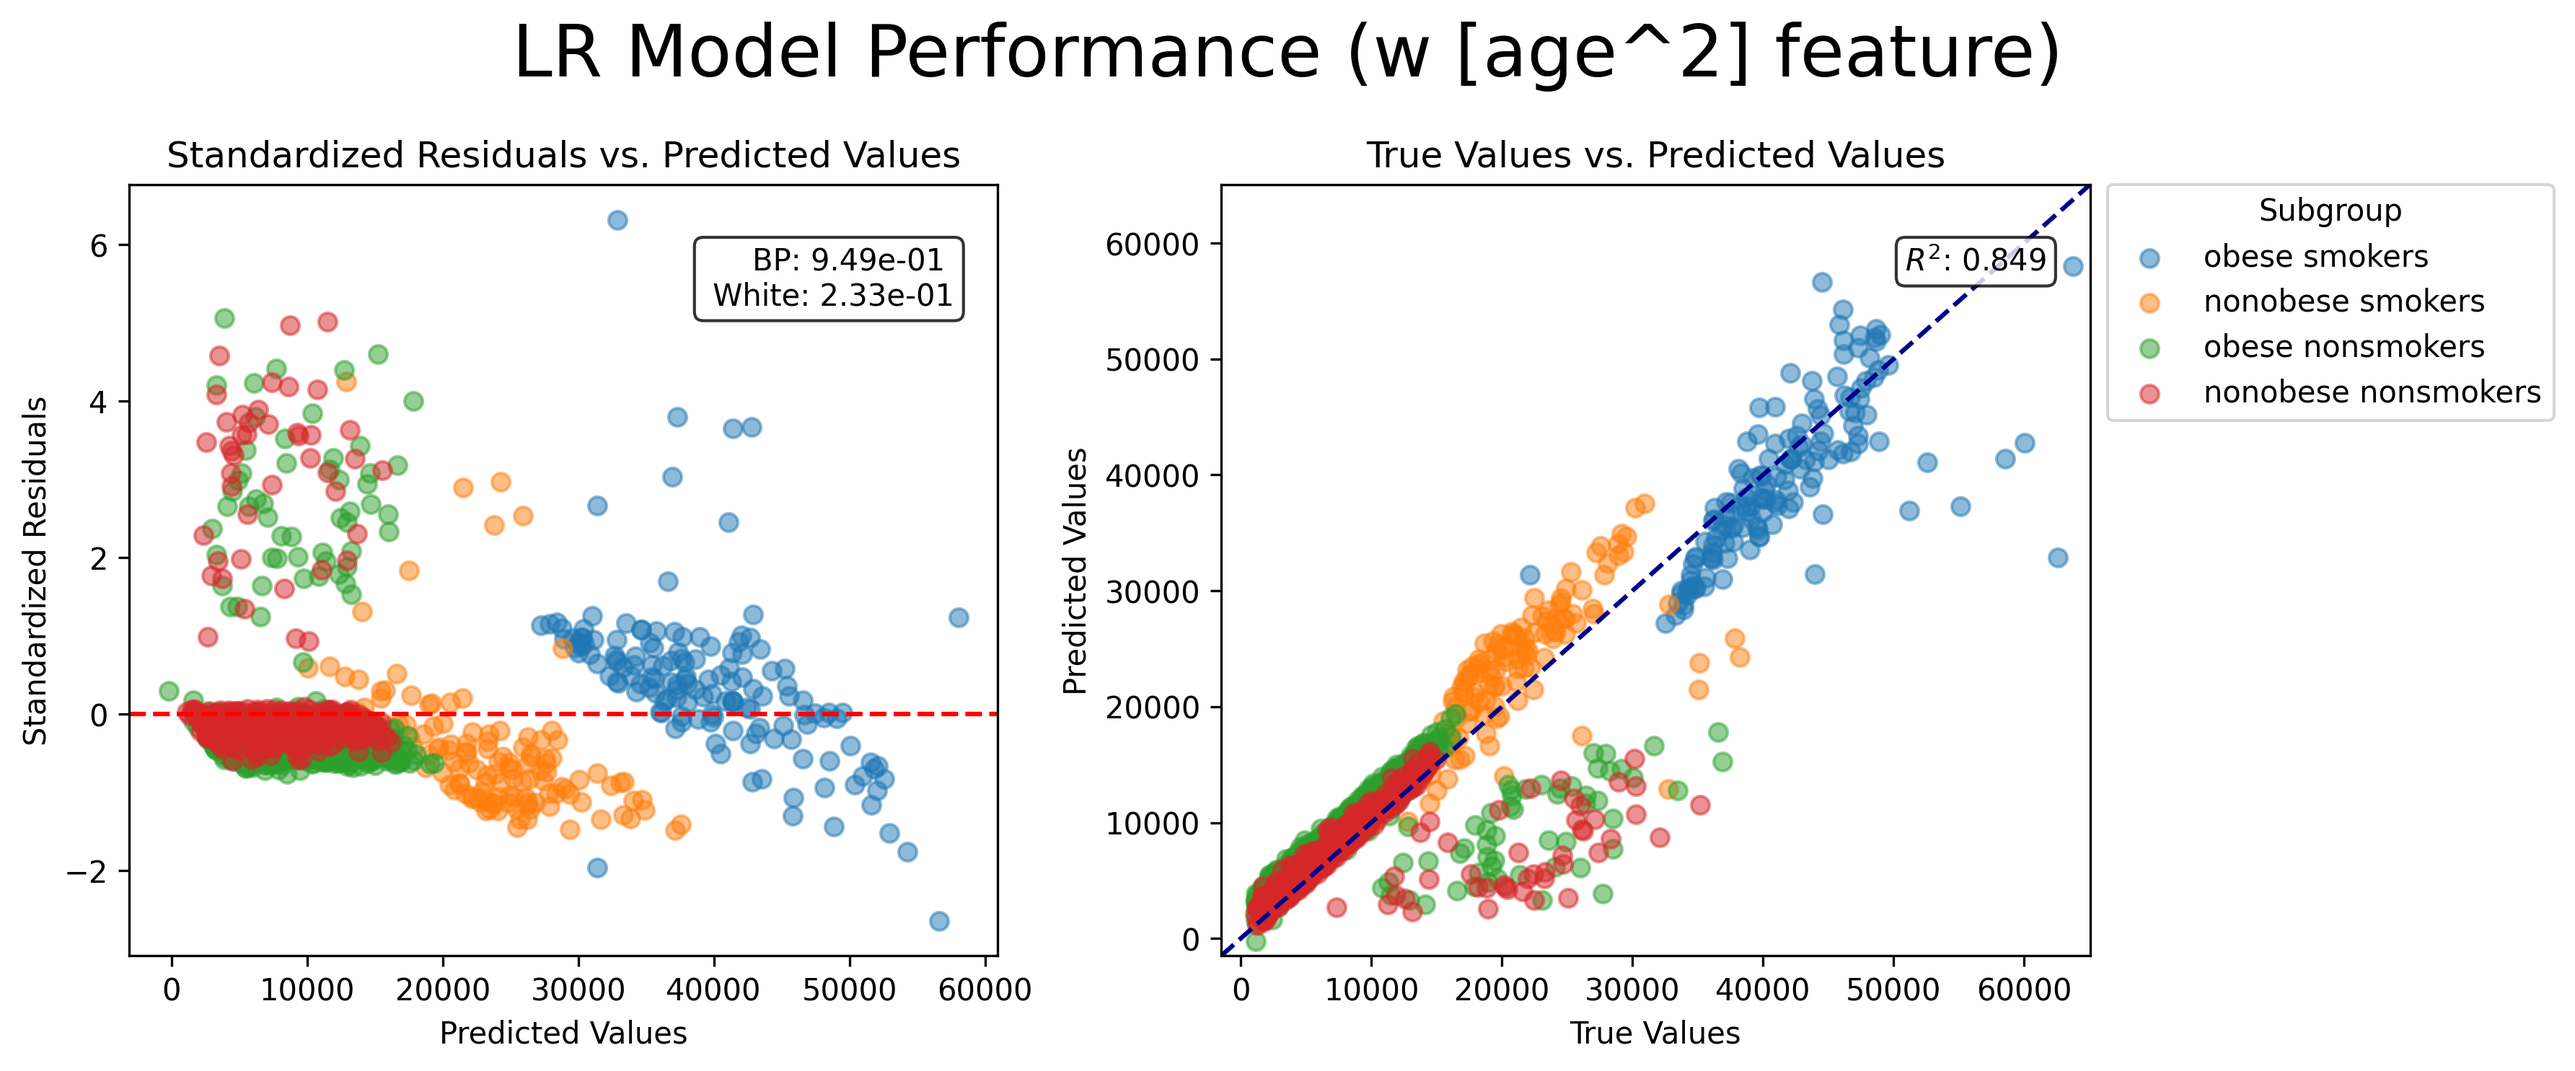
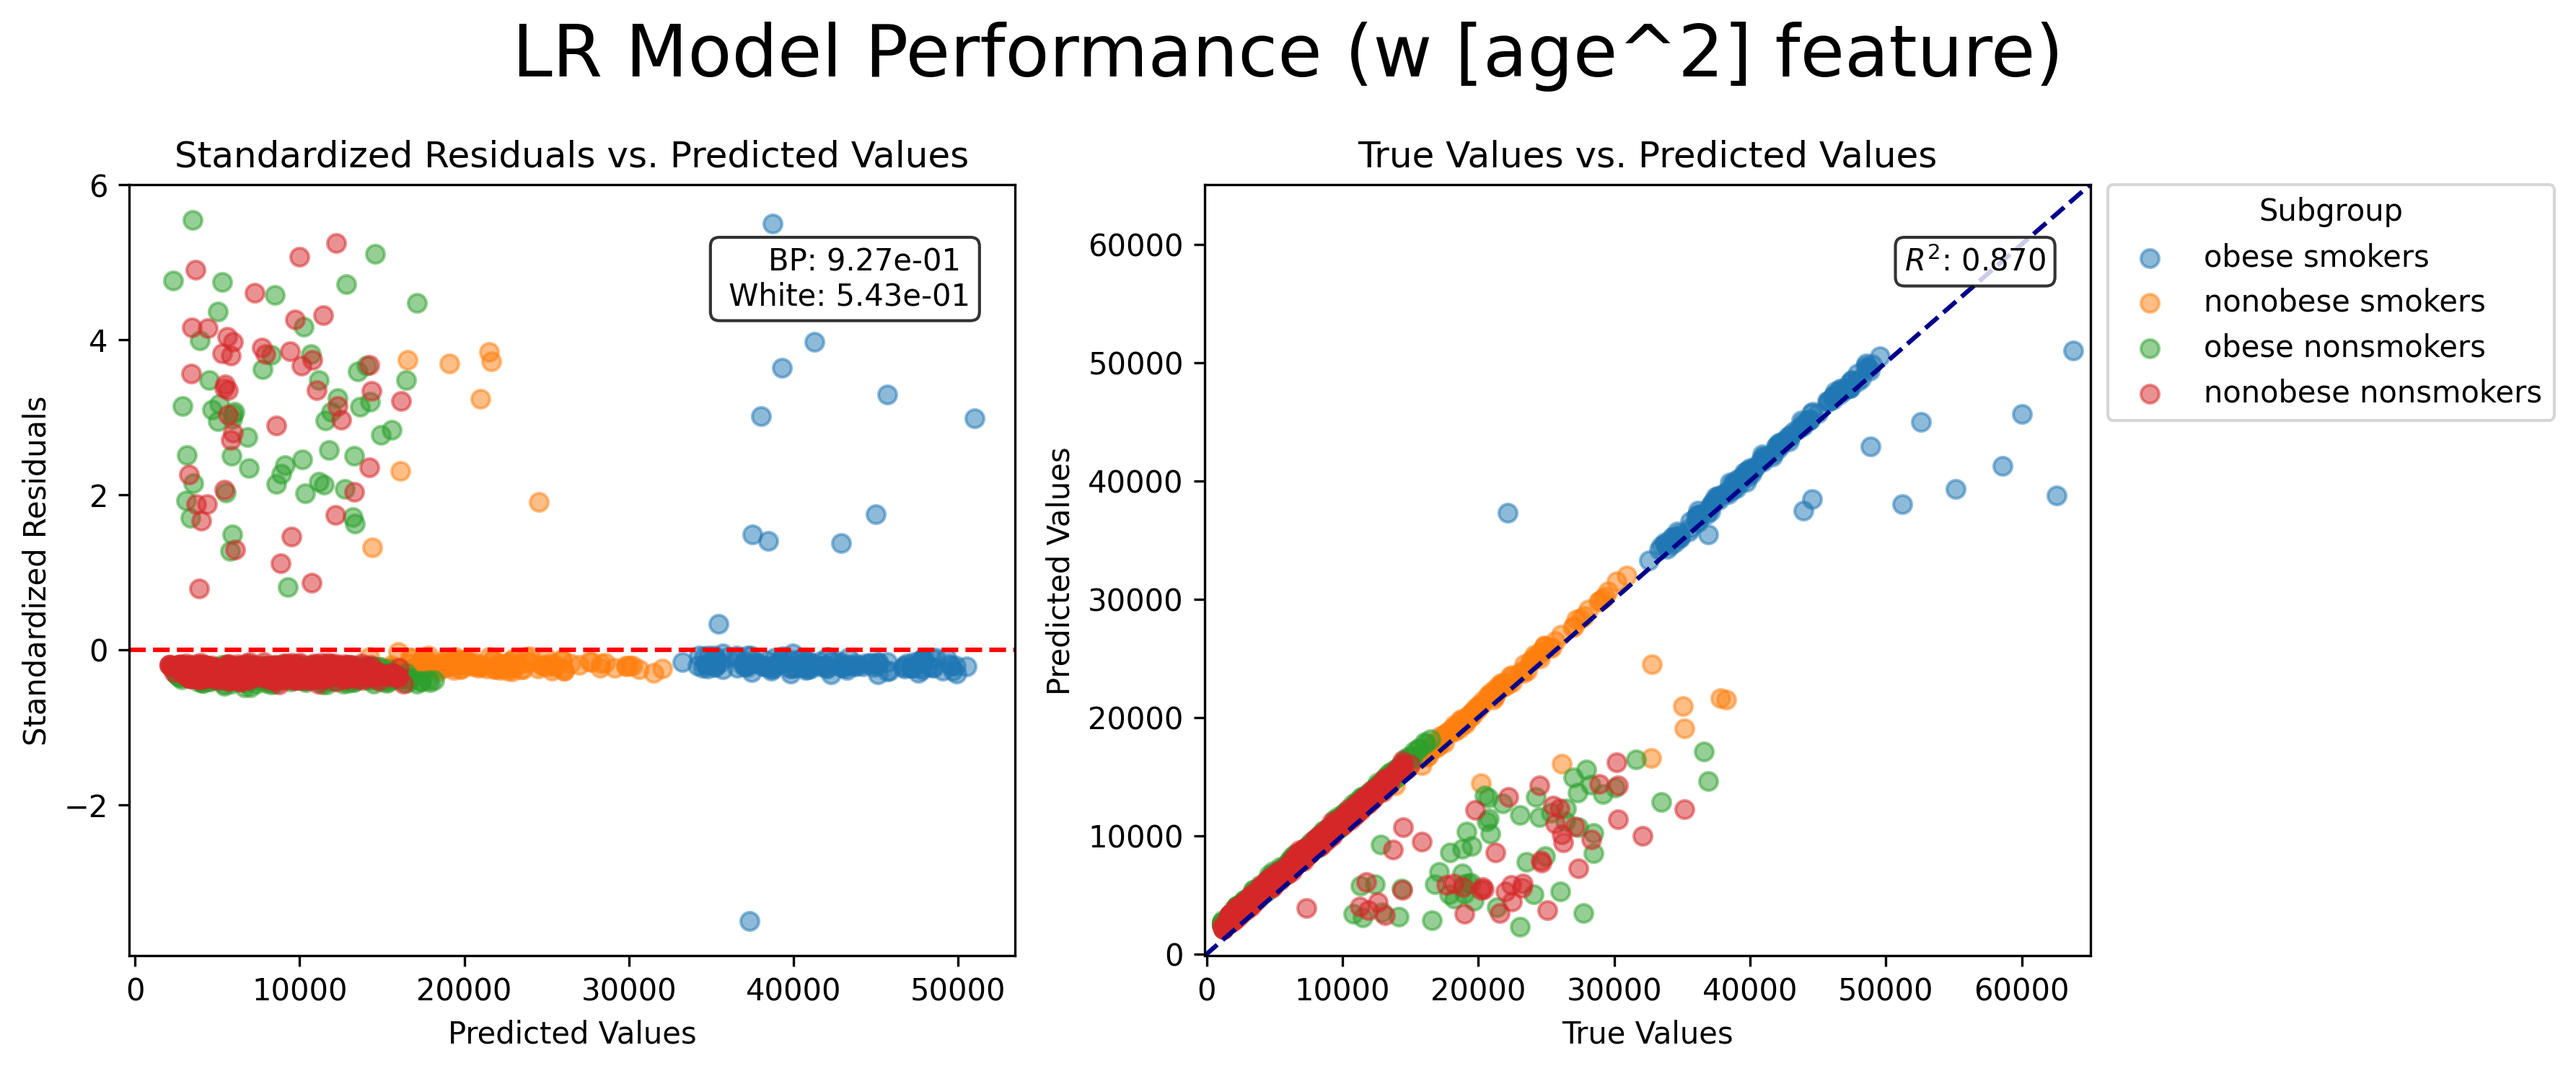
updated plots

diff --git a/cost_modeling.py b/cost_modeling.py
@@ -546,7 +546,7 @@ new_X_3 = new_X_2.copy()
 new_X_3['smoker*obese'] = new_X_3['smoker_yes'] * new_X_3['bmi_>=_30_yes']
 title_3 = 'w [smoker*obese] Feature'
 
-sm_lin_reg_3, sm_y_pred_3, het_results_3 = fit_lr_model_results_subgrouped(new_X_3, y, dataset, title_3, save_img=False, filename_unique='smoke_ob_feature')
+sm_lin_reg_3, sm_y_pred_3, het_results_3 = fit_lr_model_results_subgrouped(new_X_3, y, dataset, title_3, save_img=True, filename_unique='smoke_ob_feature')
 summary_df_3 = sm_results_to_df(sm_lin_reg_3.summary())
 sm_lin_reg_3.rsquared
 
@@ -557,25 +557,26 @@ sm_lin_reg_3.rsquared
 
 
 # =============================
-# Age vs. Charges
+# Age vs. Charges: accounting for curvilinear relationship between age and charges
 # =============================
-
-# Since the shape of the age vs. charges plots looks a bit parabolic, I tried squaring the age to 
-# transform it to a more linear relationship. It appeared to do so, but the R-squared did not change much.
-# But it does seem to make the linear regression results better
+# There is a clear curvilinear relationship between predicted charges and residuals, which indicates an element of heteroscedasticity
+# (even though the metrics don't support this). You can see this relationship a bit in the age vs. charges plots as well. 
+# So I added a new feature [age^2]. Visually, the reg line in the age vs. charges plot seems to fit better, 
+# however, this new feature doesn't seem to affect the R-squared. This may be due to the outliers and/or the shallowness of the
+# slopes of the reg lines. 
 
 new_X_4 = new_X_3.copy()
 title_4 = 'w [age^2] feature'
 
-# Unfortunately, age has already been scalled around 0 and squaring will make all the negative numbers positive
-# Will have to take the original ages, square, then scale
+# Age has already been scalled around 0 and squaring the values will make all the negative numbers positive
+# So I will to take the original ages, square them, then scale.
 orig_ages = dataset['age'].to_frame()
 squared_ages = np.power(orig_ages, 2)
 scaled_sq_ages = pd.DataFrame(StandardScaler().fit_transform(squared_ages), columns=['age^2'])
 new_X_4['age^2'] = scaled_sq_ages
 
 sm_lin_reg_4, sm_y_pred_4, het_results_4 = fit_lr_model_results_subgrouped(new_X_4, y, dataset, title_4, save_img=False, filename_unique='age_sq_feature')
-summary_df_4 = sm_results_to_df(sm_lin_reg_3.summary())
+summary_df_4 = sm_results_to_df(sm_lin_reg_4.summary())
 # sm_lin_reg_5.rsquared
 
 
